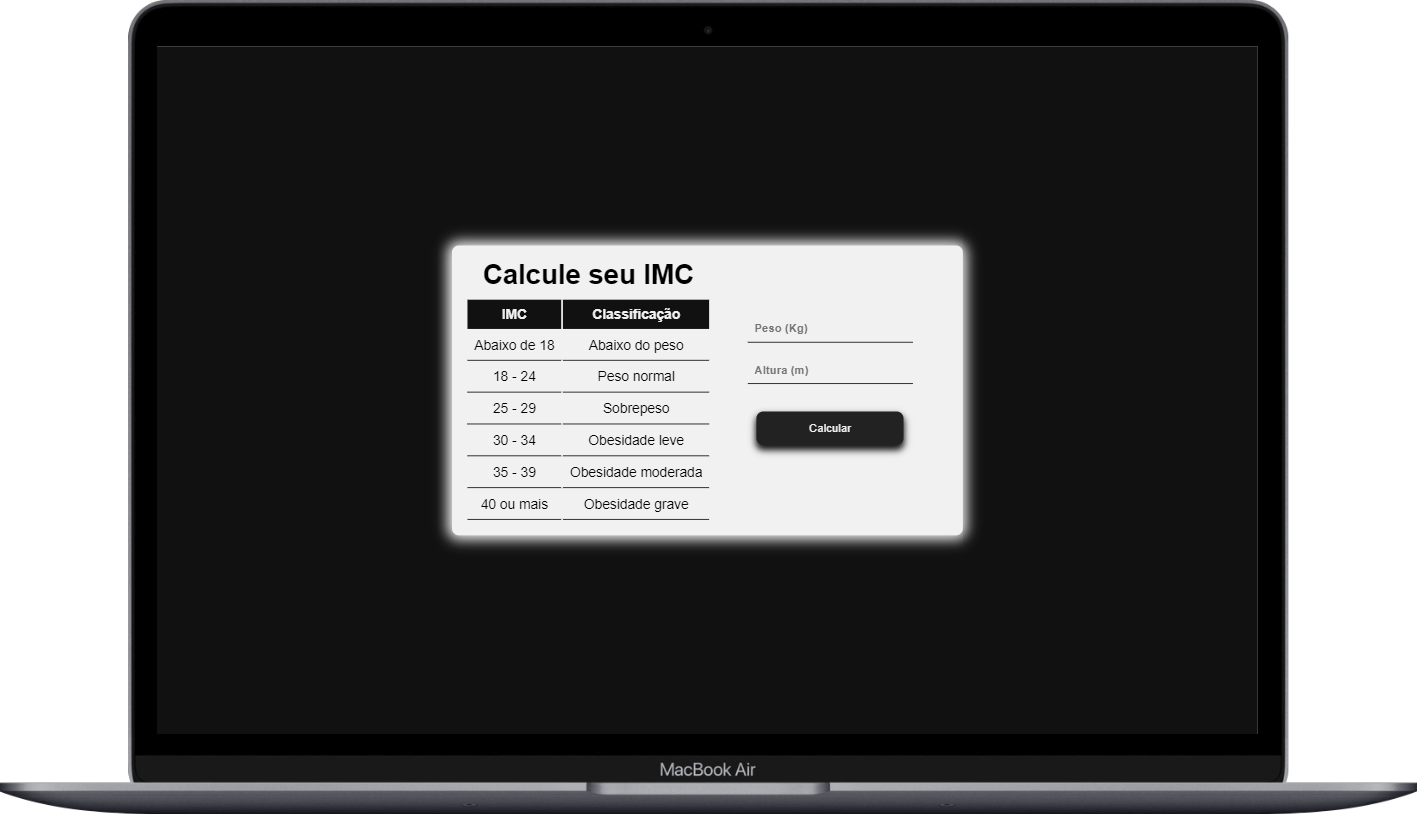
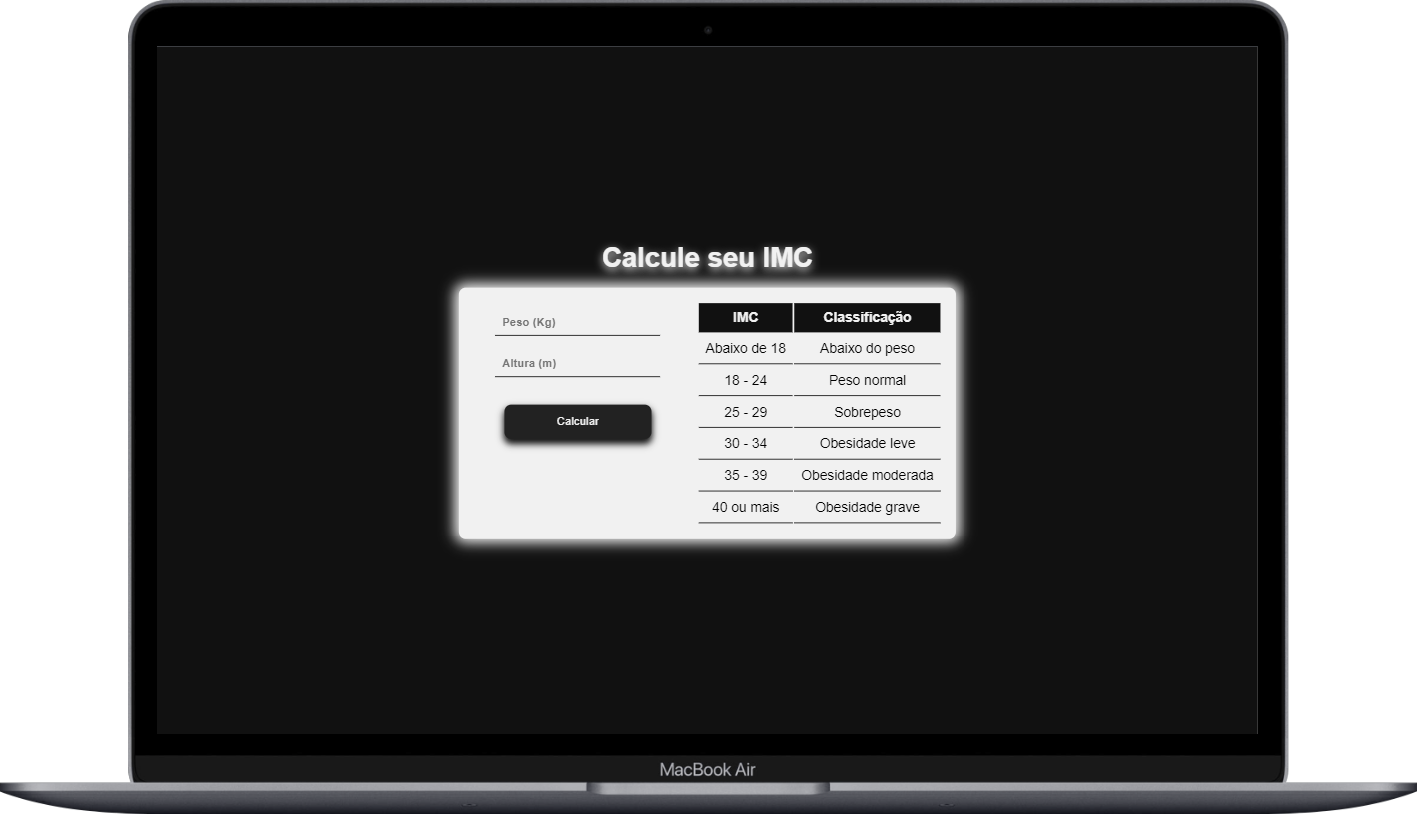
att

Changed region(s): [[0.3105, 0.2764, 0.7142, 0.6757]]

diff --git a/styles/styles.css b/styles/styles.css
@@ -28,7 +28,7 @@ body {
   box-shadow: 0px 0px 15px 5px #f1f1f1;
 }
 
-.container__info{
+.container__info {
   display: flex;
   flex-direction: column;
   gap: 8px;
@@ -45,13 +45,13 @@ body {
   padding-top: 8px;
 }
 
-.container__title{
+.container__title {
   text-align: center;
   color: #f1f1f1;
   text-shadow: 0px 3px 10px #f1f1f1;
 }
 
-td{
+td {
   text-align: center;
   padding: 8px;
   border-bottom: 1px solid #111;
@@ -110,4 +110,22 @@ th {
   background-color: #111;
   padding: 20px;
   border-radius: 16px;
+  text-align: center;
+}
+
+.result__text{
+  font-weight: bold;
+  font-size: 1.5em;
+  color: #111;
+  margin-bottom: 8px;
+}
+
+
+@media (max-width: 660px) {
+  .container {
+    flex-direction: column-reverse;
+  }
+  .container__input{
+    align-self: center;
+  }
 }

diff --git a/js/index.js b/js/index.js
@@ -17,7 +17,12 @@ function calcularIMC() {
   if (isNaN(imc)) {
     alert('Todos os campos devem ser preenchidos corretamente.')
   } else {
-    resultado.innerHTML = `<p class="result">${imc}</p>`
+    resultado.innerHTML = `
+    <p class="result__text">Seu resultado:</p>
+    <p class="result">${imc}</p>
+    <br>
+    <hr>
+    `
   }
 
 }
